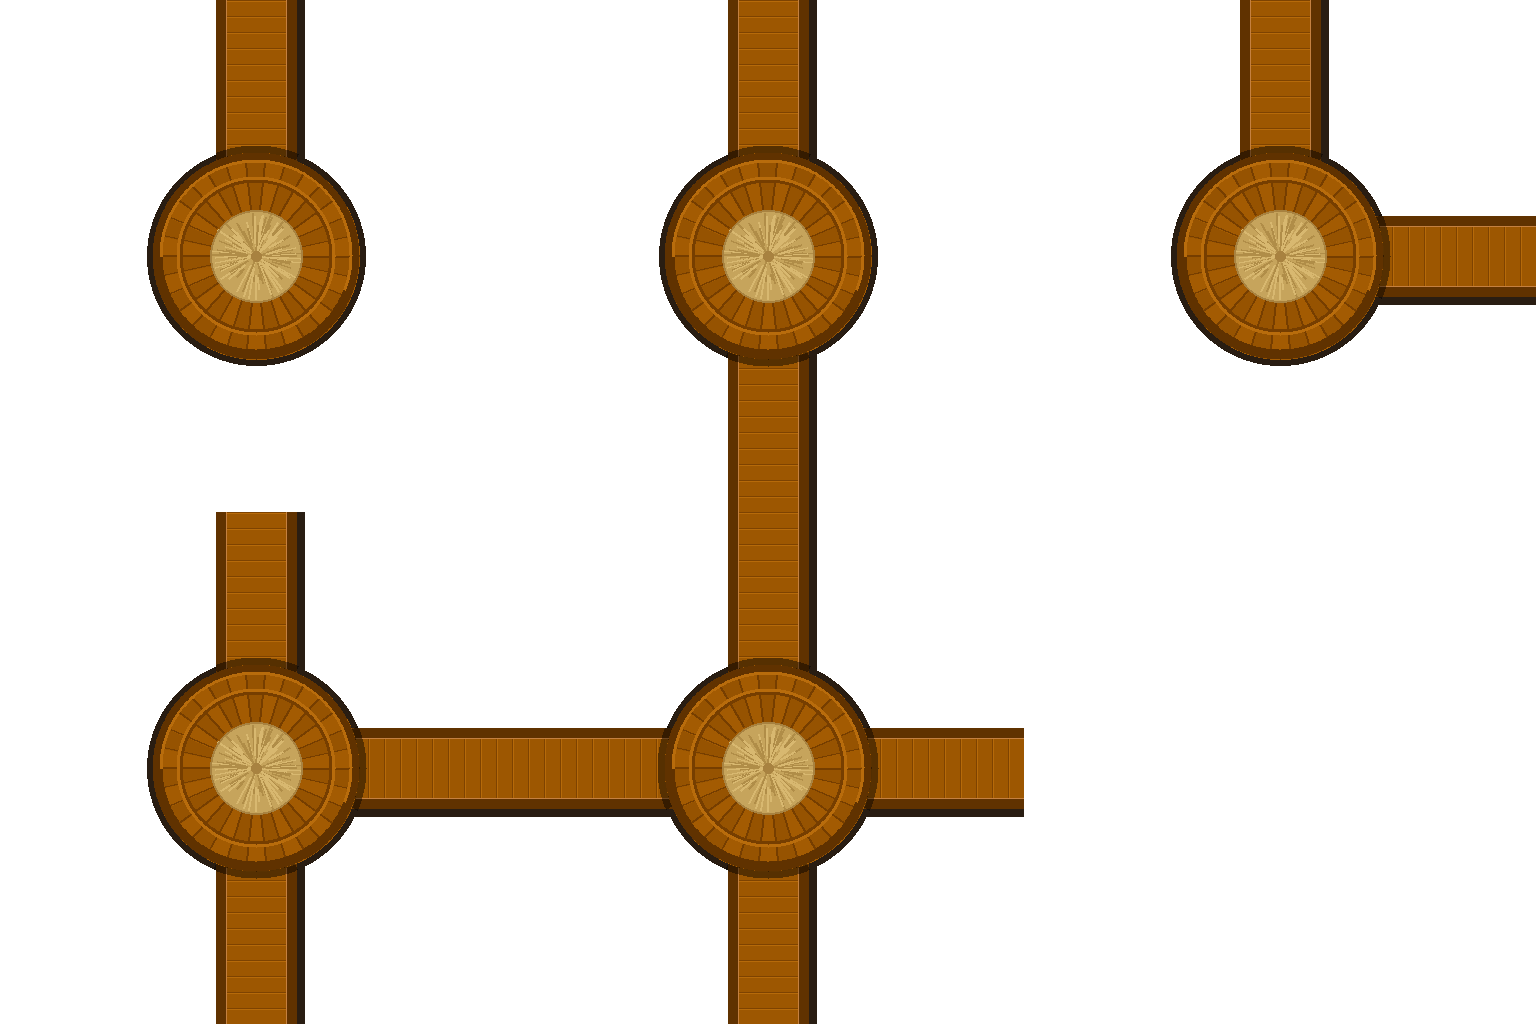
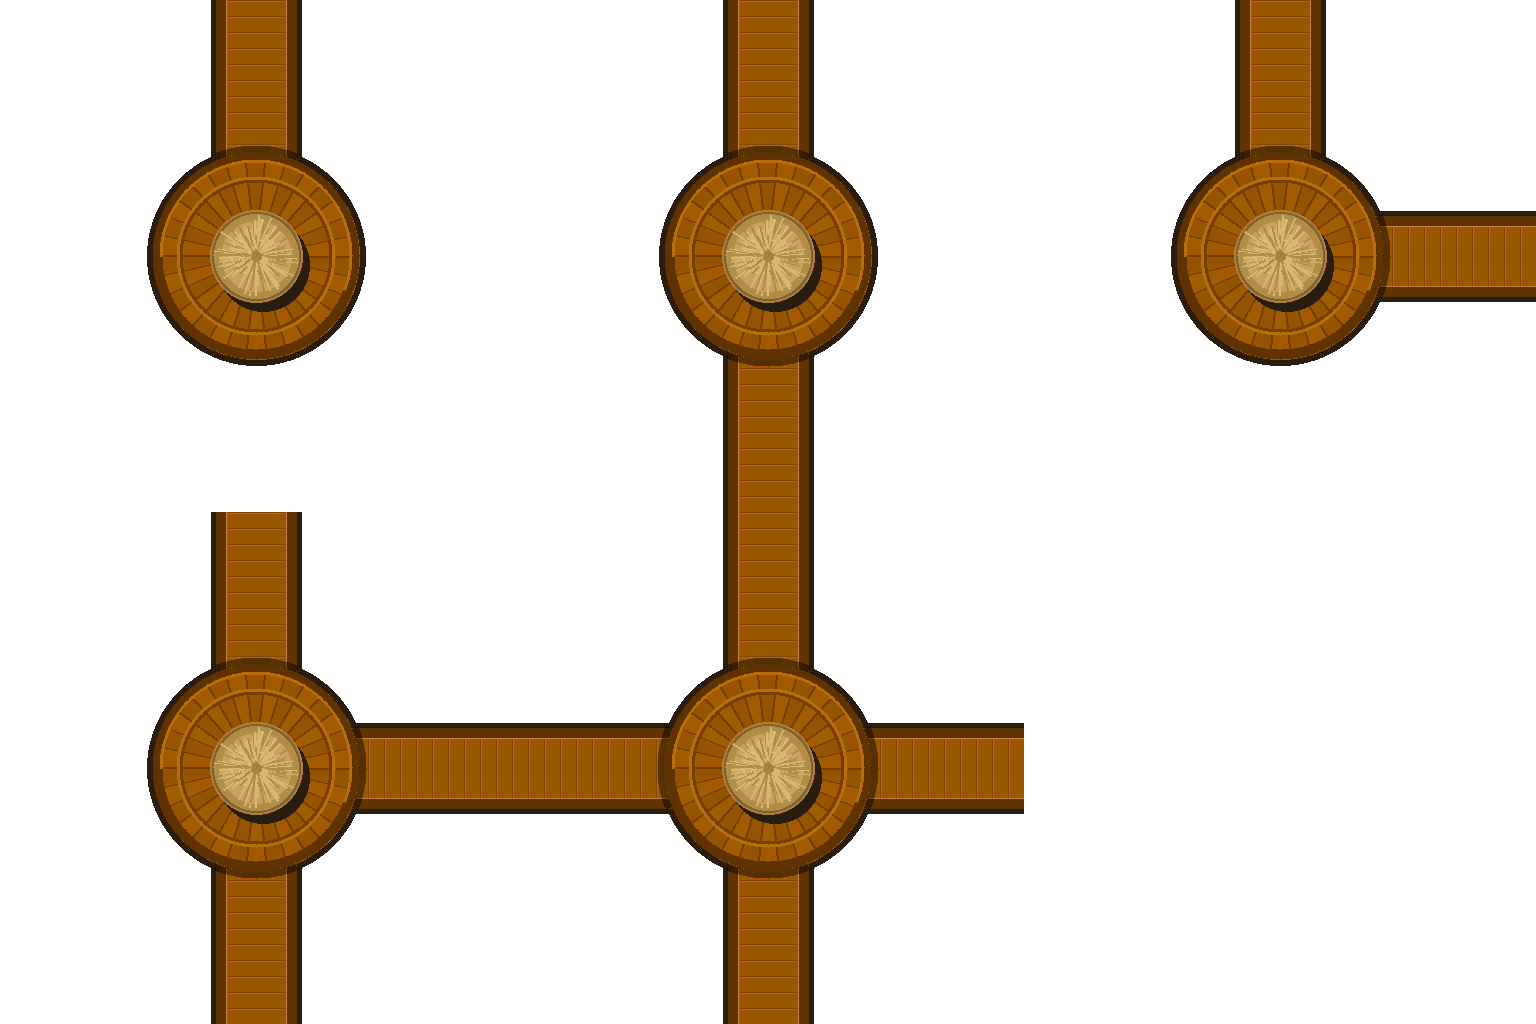
Village: stín lávek z OBOU stran a užší, bouda čte jako 3D kužel
Stín lávek byl 8 px jen na jedné dlouhé straně, takže na rohu/T přeskakoval na druhou stranu — teď 5 px symetricky, nikdy přes konec bandu, spoje bezešvé. Bouda: vržený stín dotýkající se střechy + čtyřstupňový tón (okap ve stínu -> sláma -> osvětlená špička posunutá ke světlu) + sláma přes to.

diff --git a/tools/art/village_tiles.py b/tools/art/village_tiles.py
@@ -58,12 +58,27 @@ S_BASE = (198, 164, 92)
 S_D1 = (176, 141, 72)
 S_D2 = (216, 184, 112)
 S_EDGE = (168, 130, 64)
+## The eave, in shade: the straw's own tone stepped down, so the roof has a visible edge against the
+## planks instead of dissolving into them.
+S_SHADE = (132, 96, 44)
 ## ⚠  A SHADOW IS NOT A TRANSPARENCY. Semi-transparent black over the green canopy produced a GREEN
 ## shadow — it read as the trees showing through beneath the deck, not as shade (Jan: "vadí to, že ten
 ## stín je zelený, působí to, jak kdyby pod tím prosvítaly stromy"). Every shadow that falls on the
 ## JUNGLE is drawn in this opaque warm tone instead; black at low alpha is only used where the shadow
 ## falls on WOOD, where it correctly darkens the planks.
 SHADOW = (41, 29, 18)
+## ⚠  THE WALKWAY'S SHADE IS SYMMETRIC AND NARROW. It used to be an 8 px strip on ONE long side
+## (right of a vertical walkway, below a horizontal one). On a corner or a tee the two bands shade
+## OPPOSITE sides, so the strip jumped from one side of the path to the other at the deck — Jan:
+## "u všech lávek je stín jen z jedné strany … uprostřed cesty je najednou zlom a místo stínu vpravo
+## je najednou vlevo". The shade now runs down BOTH long sides at the same width, so every tile
+## agrees with its neighbour whatever the rotation, and it is thinner than before.
+SHADOW_W = 5
+## The hut's cast shadow, in px, from the light at the upper left. Only the part that falls OUTSIDE
+## the roof silhouette shows, so it touches the roof and reads as shade on the planks instead of a
+## dark ring around a floating disc (Jan: "jen světle kolečko na podlaze").
+HUT_SHX = 7
+HUT_SHY = 9
 
 DIRS = {1: (0, -1), 2: (0, 1), 4: (1, 0), 8: (-1, 0)}
 ARCHETYPES = [1, 3, 5, 7, 15]
@@ -83,10 +98,15 @@ def band_rect(direction):
 
 def band(d, direction):
     x0, y0, x1, y1 = band_rect(direction)
+    # The shade runs down BOTH long sides, at the same width, so a corner or a tee cannot hand the
+    # dark side over to the other edge mid-path (see SHADOW_W). It never runs past the band's ENDS,
+    # which is the direction of travel — that is what keeps the seam between two tiles invisible.
     if direction in ("N", "S"):
-        d.rectangle((x1, y0, x1 + 8, y1), fill=SHADOW)
+        d.rectangle((x0 - SHADOW_W, y0, x0 - 1, y1), fill=SHADOW)
+        d.rectangle((x1 + 1, y0, x1 + SHADOW_W, y1), fill=SHADOW)
     else:
-        d.rectangle((x0, y1, x1, y1 + 8), fill=SHADOW)
+        d.rectangle((x0, y0 - SHADOW_W, x1, y0 - 1), fill=SHADOW)
+        d.rectangle((x0, y1 + 1, x1, y1 + SHADOW_W), fill=SHADOW)
     d.rectangle((x0, y0, x1, y1), fill=P_BASE)
     if direction in ("N", "S"):
         d.rectangle((x0, y0, x0 + BEAM, y1), fill=P_RIM)
@@ -160,12 +180,29 @@ def ring(d, mask):
 
 
 def hut(d):
-    d.ellipse((CX - ROOF_R, CY - ROOF_R, CX + ROOF_R, CY + ROOF_R), fill=S_BASE)
+    # ⚠  THE HUT MUST READ AS A RAISED CONE, NOT A PALE DISC. Jan, Nov 2026: "Kolem slámových budov
+    # musíme taky udělat nějaký stín a nebo nějak jinak zvýraznit, že se jedná o 3D objekt a ne jen
+    # světle kolečko na podlaze." Three cues, in this order, and each one alone is not enough:
+    #   1. a CAST SHADOW offset from the light at the upper left. It TOUCHES the roof's silhouette —
+    #      an offset shadow with bare deck between it and the hut is what the old version was read
+    #      as ("mezera kolem boudy"), so the roof keeps the full footprint and the shadow is drawn
+    #      FIRST, underneath it.
+    #   2. a CONCENTRIC TONE RAMP: eave in shade -> straw -> lit crown. That is the volume cue; a
+    #      single flat straw fill at any radius reads as a circle painted on the planks.
+    #   3. the straw strokes stay, radiating from the crown, so the ramp does not read as a bullseye.
+    d.ellipse((CX - ROOF_R + HUT_SHX, CY - ROOF_R + HUT_SHY,
+               CX + ROOF_R + HUT_SHX, CY + ROOF_R + HUT_SHY), fill=SHADOW)
+    d.ellipse((CX - ROOF_R, CY - ROOF_R, CX + ROOF_R, CY + ROOF_R), fill=S_SHADE)
+    for rad, col in ((ROOF_R - 4, S_D1), (ROOF_R - 11, S_BASE)):
+        d.ellipse((CX - rad, CY - rad, CX + rad, CY + rad), fill=col)
+    # The crown is pulled toward the light (upper left), so the lit cap is bigger than the shaded
+    # slope instead of the ramp being a symmetric bullseye.
+    d.ellipse((CX - 23 - 3, CY - 23 - 4, CX + 23 - 3, CY + 23 - 4), fill=S_D2)
     rng = random.Random(77)
-    for k in range(130):
+    for k in range(150):
         a = rng.random() * math.tau
-        r0 = rng.random() * ROOF_R * 0.5
-        r1 = ROOF_R * (0.5 + rng.random() * 0.5)
+        r0 = rng.random() * ROOF_R * 0.4
+        r1 = (ROOF_R - 3) * (0.4 + rng.random() * 0.6)
         d.line([(CX + math.cos(a) * r0, CY + math.sin(a) * r0),
                 (CX + math.cos(a) * r1, CY + math.sin(a) * r1)],
                fill=(S_D1 if k % 2 else S_D2), width=2)
